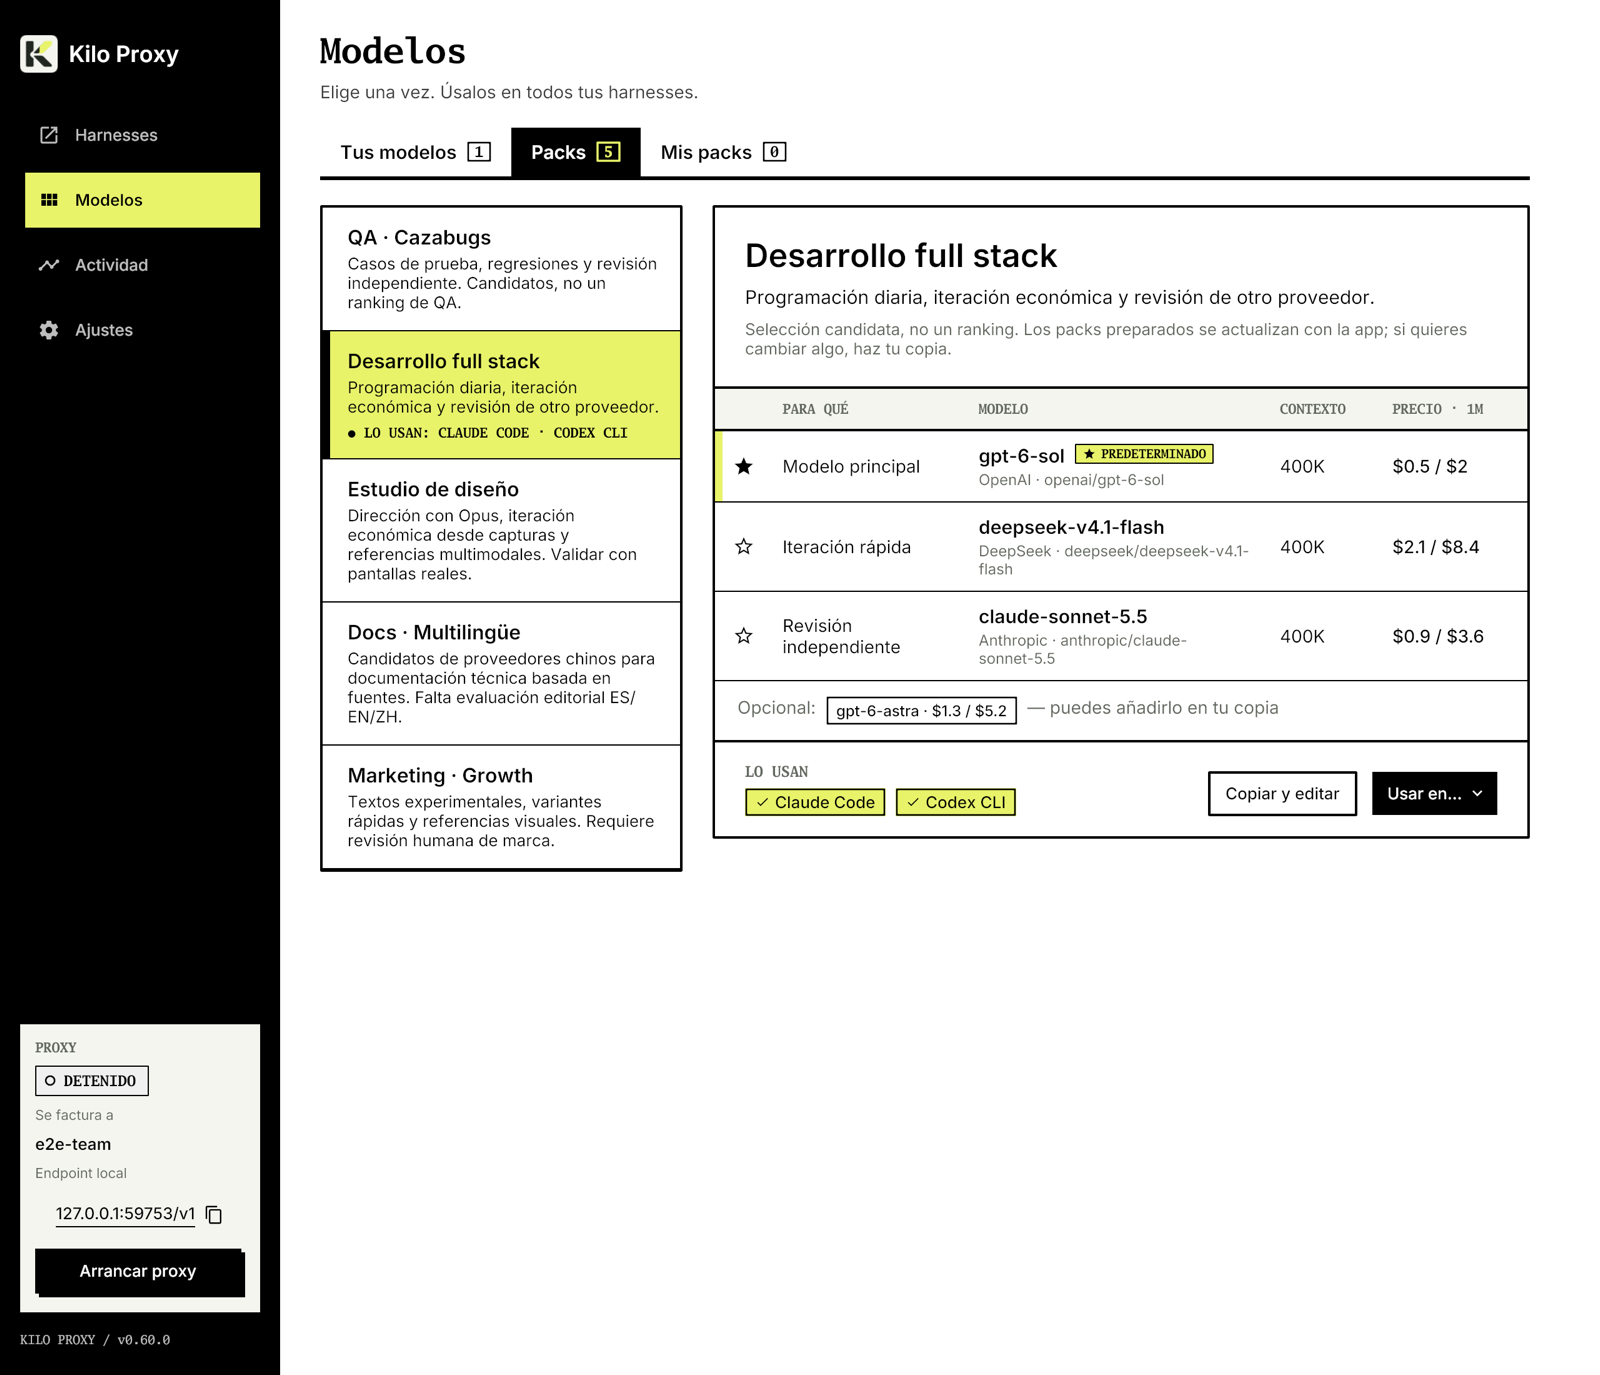
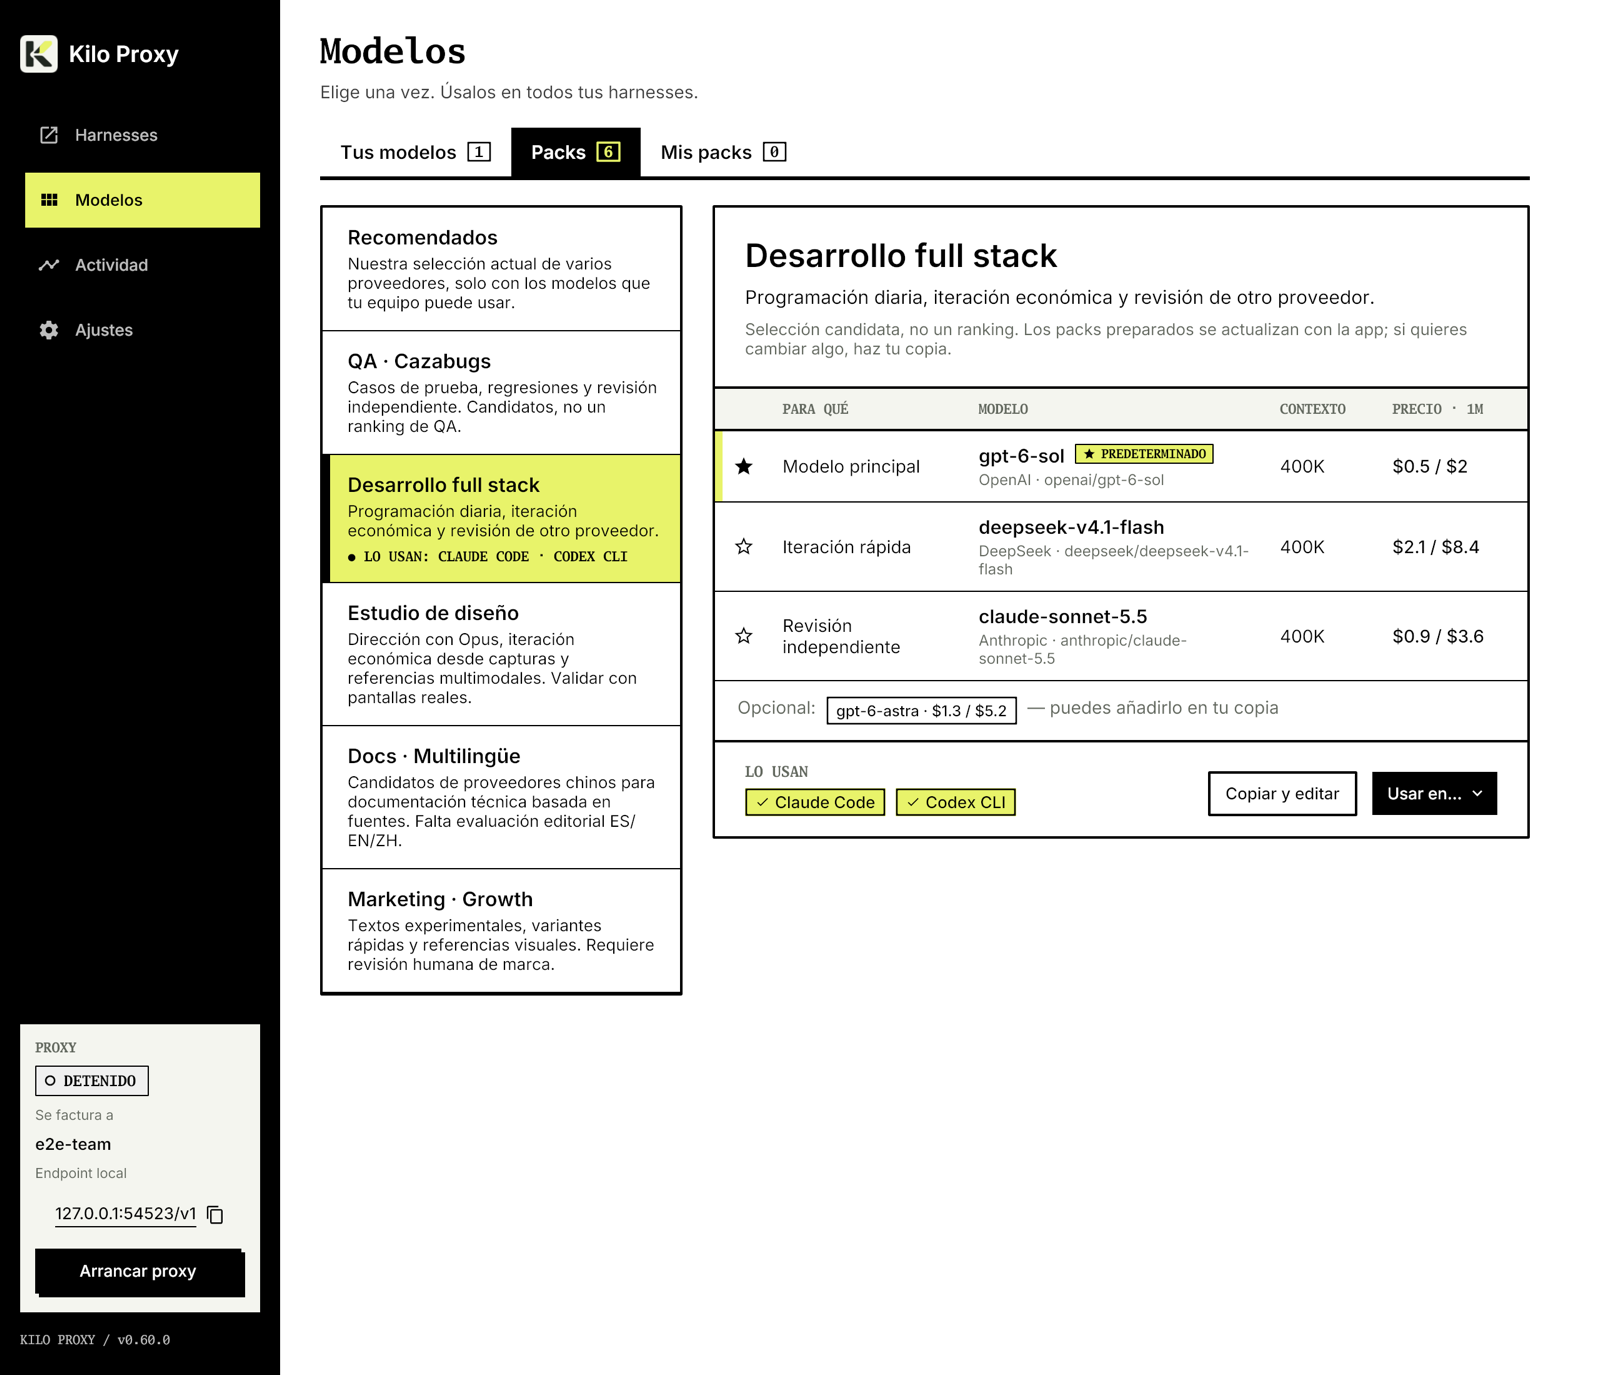
Lead Packs with a Recommended pack; recommend Gemini 3.8 Flash and Muse Spark 1.3
Packs now starts with "Recommended", built from the published
recommendations that the team catalog offers, in list order and with the
published default. It can be assigned to a harness and copied like the
other packs, and terminal launches resolve it from the saved catalog.

The published list adds google/gemini-3.8-flash and meta/muse-spark-1.3.

Changed region(s): [[0.1875, 0.1527, 0.4375, 0.7331], [0.0312, 0.8553, 0.125, 0.8858]]

diff --git a/native_ux_packs_detail.go b/native_ux_packs_detail.go
@@ -35,7 +35,7 @@ func (u *nativeUI) uxmPacksPanel() layout.Widget {
 // uxmCuratedPack returns the selected built-in pack, selecting the first one.
 func (u *nativeUI) uxmCuratedPack() *curatedModelPack {
 	p := u.packsState()
-	builtins := builtinModelPacks()
+	builtins := u.curatedPacks()
 	for i := range builtins {
 		if builtins[i].ID == p.selected {
 			return &builtins[i]
@@ -51,7 +51,7 @@ func (u *nativeUI) uxmCuratedPack() *curatedModelPack {
 func (u *nativeUI) uxmCuratedPackList() layout.Widget {
 	chosen := u.uxmCuratedPack()
 	rows := []layout.Widget{}
-	for _, pack := range builtinModelPacks() {
+	for _, pack := range u.curatedPacks() {
 		id := pack.ID
 		rows = append(rows, u.uxmPackListRow("packs.pick."+id, u.localizedPackText(pack.Name), u.localizedPackText(pack.Description), u.uxmPackUsers(id), chosen != nil && chosen.ID == id, func() { u.packsState().selected = id }))
 	}
@@ -70,6 +70,11 @@ func (u *nativeUI) uxmCuratedPackDetail() layout.Widget {
 	pack := *chosen
 	columns := u.uxmCuratedColumns()
 	rows := []layout.Widget{u.uxmTableHeader(columns)}
+	if len(pack.Models) == 0 {
+		rows = append(rows, func(gtx layout.Context) layout.Dimensions {
+			return layout.UniformInset(18).Layout(gtx, u.note(u.tr("None of the recommended models are in your team catalog yet. Refresh the catalog to check again.", "Ninguno de los modelos recomendados figura todavía en el catálogo de tu equipo. Actualiza el catálogo para volver a comprobarlo.")))
+		})
+	}
 	for _, spec := range pack.Models {
 		isDefault := spec.ID == pack.DefaultModel
 		star := uxmIcon(nativeIconStarOutline, 18, nativeInk)
@@ -99,10 +104,14 @@ func (u *nativeUI) uxmCuratedPackDetail() layout.Widget {
 			return layout.Inset{Top: 12, Bottom: 12, Left: 18, Right: 18}.Layout(gtx, u.pills(chips...))
 		})
 	}
-	copyButton := u.disabled(len(u.models) > 0 && len(u.missingPackModels(pack.ID)) == 0, u.button("packs.copy."+pack.ID, u.tr("Copy and edit", "Copiar y editar"), func() { u.createPersonalPack(pack.ID) }))
+	copyButton := u.disabled(len(pack.Models) > 0 && len(u.models) > 0 && len(u.missingPackModels(pack.ID)) == 0, u.button("packs.copy."+pack.ID, u.tr("Copy and edit", "Copiar y editar"), func() { u.createPersonalPack(pack.ID) }))
+	caption := u.tr("Candidate selection, not a ranking. Built-in packs update with the app; to change something, make your copy.", "Selección candidata, no un ranking. Los packs preparados se actualizan con la app; si quieres cambiar algo, haz tu copia.")
+	if pack.ID == modelLibraryStartRecommended {
+		caption = u.tr("Follows the published recommendations and refreshes with your catalog; to change something, make your copy.", "Sigue las recomendaciones publicadas y se actualiza con tu catálogo; si quieres cambiar algo, haz tu copia.")
+	}
 	header := u.uxmPackHeader(u.textStyle(26, u.localizedPackText(pack.Name), nativeInk, font.Bold),
 		u.textStyle(15, u.localizedPackText(pack.Description), nativeText, font.Normal),
-		u.uxmSubtle(13, u.tr("Candidate selection, not a ranking. Built-in packs update with the app; to change something, make your copy.", "Selección candidata, no un ranking. Los packs preparados se actualizan con la app; si quieres cambiar algo, haz tu copia.")),
+		u.uxmSubtle(13, caption),
 	)
 	body := []layout.Widget{header, uxmHRule(nativeLine, nativeInk), uxmStack(rows...)}
 	if missing := u.missingPackModels(pack.ID); len(missing) > 0 && len(u.models) > 0 {

diff --git a/model_packs.go b/model_packs.go
@@ -12,6 +12,7 @@ import (
 	"os"
 	"path/filepath"
 	"regexp"
+	"slices"
 	"strings"
 	"unicode"
 	"unicode/utf8"
@@ -116,6 +117,50 @@ func builtinModelPacks() []curatedModelPack {
 	return catalog.Packs
 }
 
+// recommendedModelPack is the "Recommended" pack: the published picks that the
+// team catalog offers, in list order. It is built from the catalog so it never
+// names a model the team cannot use, and it follows the published list.
+func recommendedModelPack(catalog []modelInfo) curatedModelPack {
+	pack := curatedModelPack{
+		ID:          modelLibraryStartRecommended,
+		Name:        packText{EN: "Recommended", ES: "Recomendados"},
+		Description: packText{EN: "Our current picks across providers, limited to the models your team can use.", ES: "Nuestra selección actual de varios proveedores, solo con los modelos que tu equipo puede usar."},
+	}
+	recommended := []modelInfo{}
+	for _, m := range catalog {
+		if m.Recommendation != nil {
+			recommended = append(recommended, m)
+		}
+	}
+	slices.SortStableFunc(recommended, func(a, b modelInfo) int { return a.Recommendation.Rank - b.Recommendation.Rank })
+	for _, m := range recommended {
+		r := m.Recommendation
+		pack.Models = append(pack.Models, packModelSpec{ID: m.ID, Role: packText{EN: packRole(r.NoteEN), ES: packRole(r.NoteES)}})
+		if r.Default && pack.DefaultModel == "" {
+			pack.DefaultModel = m.ID
+		}
+	}
+	if len(recommended) > 0 && pack.DefaultModel == "" {
+		pack.DefaultModel = recommended[0].ID
+	}
+	return pack
+}
+
+// packRole fits a recommendation note into a pack role, which personal copies
+// limit to 80 characters.
+func packRole(note string) string {
+	r := []rune(strings.TrimSpace(note))
+	if len(r) <= 80 {
+		return string(r)
+	}
+	return strings.TrimSpace(string(r[:79])) + "…"
+}
+
+// curatedModelPacks lists the Recommended pack first, then the built-in packs.
+func curatedModelPacks(catalog []modelInfo) []curatedModelPack {
+	return append([]curatedModelPack{recommendedModelPack(catalog)}, builtinModelPacks()...)
+}
+
 func emptyModelPacksFile() modelPacksFile {
 	return modelPacksFile{SchemaVersion: 1, Personal: []personalModelPack{}, Assignments: map[string]string{}}
 }
@@ -165,9 +210,12 @@ func modelPackLibrary(file modelPacksFile, id string, catalog []modelInfo) (mode
 	if personal := file.personalPack(id); personal != nil {
 		return cloneModelLibrary(personal.Library), nil
 	}
-	for _, pack := range builtinModelPacks() {
+	for _, pack := range curatedModelPacks(catalog) {
 		if pack.ID != id {
 			continue
+		}
+		if len(pack.Models) == 0 {
+			return modelLibrary{}, errors.New("No recommended models are in your team catalog. Refresh Models or choose another pack.")
 		}
 		known := make(map[string]modelInfo, len(catalog))
 		for _, model := range catalog {

diff --git a/native_packs.go b/native_packs.go
@@ -23,23 +23,22 @@ type nativePackUI struct {
 func (u *nativeUI) packsState() *nativePackUI {
 	if u.packs == nil {
 		store := newModelPacksStore(u.owner.dir)
-		selected := ""
-		if builtins := builtinModelPacks(); len(builtins) > 0 {
-			selected = builtins[0].ID
-		}
-		u.packs = &nativePackUI{store: store, file: cloneModelPacksFile(store.value), tab: "library", selected: selected}
+		u.packs = &nativePackUI{store: store, file: cloneModelPacksFile(store.value), tab: "library", selected: modelLibraryStartRecommended}
 	}
 	return u.packs
 }
 
 func (u *nativeUI) localizedPackText(value packText) string { return u.tr(value.EN, value.ES) }
 
+// curatedPacks lists the Recommended pack first, then the built-in packs.
+func (u *nativeUI) curatedPacks() []curatedModelPack { return curatedModelPacks(u.models) }
+
 func (u *nativeUI) packName(id string) string {
 	p := u.packsState()
 	if personal := p.file.personalPack(id); personal != nil {
 		return personal.Name
 	}
-	for _, builtin := range builtinModelPacks() {
+	for _, builtin := range u.curatedPacks() {
 		if builtin.ID == id {
 			return u.localizedPackText(builtin.Name)
 		}
@@ -130,7 +129,7 @@ func (u *nativeUI) createPersonalPack(basedOn string) {
 	roles := map[string]string{}
 	if basedOn != "" {
 		var builtin *curatedModelPack
-		for _, spec := range builtinModelPacks() {
+		for _, spec := range u.curatedPacks() {
 			if spec.ID == basedOn {
 				copy := spec
 				builtin = &copy
@@ -150,11 +149,16 @@ func (u *nativeUI) createPersonalPack(basedOn string) {
 			return
 		}
 		name = u.tr("My ", "Mi ") + u.localizedPackText(builtin.Name)
+		if basedOn == modelLibraryStartRecommended {
+			name = u.tr("My recommended", "Mis recomendados")
+		}
 		library = modelLibrary{SchemaVersion: 1, Models: []modelLibraryItem{}}
 		for _, spec := range builtin.Models {
 			model, _ := u.packCatalogModel(spec.ID)
 			library.Models = append(library.Models, modelLibraryItem{ID: spec.ID, ContextPreset: contextPresetRecommended, MaxOutputTokens: model.MaxOutputTokens})
-			roles[spec.ID] = u.localizedPackText(spec.Role)
+			if role := u.localizedPackText(spec.Role); role != "" {
+				roles[spec.ID] = role
+			}
 		}
 		if len(library.Models) == 0 {
 			u.noticeError(errors.New(u.tr("None of this pack's models are in your team's catalog.", "Ningún modelo de este pack figura en el catálogo de tu equipo.")))

diff --git a/model_packs_test.go b/model_packs_test.go
@@ -169,3 +169,30 @@ func TestPersonalPacksWithoutValidBackupCannotBeResetSilently(t *testing.T) {
 		}
 	}
 }
+
+func TestRecommendedPackFollowsCatalogRecommendations(t *testing.T) {
+	long := strings.Repeat("a", 120)
+	catalog := []modelInfo{
+		{ID: "x/plain"},
+		{ID: "x/second", Recommendation: &modelRecommendation{Rank: 2, Default: true, NoteEN: "Second", NoteES: long}},
+		{ID: "x/first", Recommendation: &modelRecommendation{Rank: 1, NoteEN: "First", NoteES: "Primero"}},
+	}
+	packs := curatedModelPacks(catalog)
+	if len(packs) != len(builtinModelPacks())+1 || packs[0].ID != modelLibraryStartRecommended {
+		t.Fatalf("Recommended must lead the curated packs, got %d packs starting with %q", len(packs), packs[0].ID)
+	}
+	pack := packs[0]
+	if len(pack.Models) != 2 || pack.Models[0].ID != "x/first" || pack.Models[1].ID != "x/second" || pack.DefaultModel != "x/second" {
+		t.Fatalf("unexpected recommended pack: %+v", pack)
+	}
+	if !validPackText(pack.Models[1].Role.ES, 80) {
+		t.Fatalf("long notes must fit a pack role, got %d runes", len([]rune(pack.Models[1].Role.ES)))
+	}
+	library, err := modelPackLibrary(emptyModelPacksFile(), modelLibraryStartRecommended, catalog)
+	if err != nil || len(library.Models) != 2 || library.DefaultModel != "x/second" {
+		t.Fatalf("recommended pack library = %+v, %v", library, err)
+	}
+	if _, err := modelPackLibrary(emptyModelPacksFile(), modelLibraryStartRecommended, []modelInfo{{ID: "x/plain"}}); err == nil {
+		t.Fatal("a catalog without recommendations must not resolve an empty Recommended pack")
+	}
+}

diff --git a/native_screenshot_test.go b/native_screenshot_test.go
@@ -231,6 +231,14 @@ func TestNativeScreenshots(t *testing.T) {
 		k.language = lang
 	}
 	k.models = uxmPackCatalogForTest(r.models)
+	// Mark the catalog with the published list so the Recommended pack has rows.
+	if recommendations, err := parseRecommendedModels(embeddedRecommendedModels); err == nil {
+		for i := range k.models {
+			if rec, ok := recommendations[k.models[i].ID]; ok {
+				k.models[i].Recommendation = &rec
+			}
+		}
+	}
 	k.page, k.setupStep = "setup", setupModels
 	k.setValue("setup.models.start", "full-stack-dev")
 	shoot(k, "30-models-setup-pack", 1280, 1700)
@@ -246,6 +254,10 @@ func TestNativeScreenshots(t *testing.T) {
 	shoot(k, "31-models-packs", 1280, 1100)
 	k.uxmOpenMenu("packs.use.full-stack-dev", "")
 	shoot(k, "32-models-packs-use", 1280, 1100)
+	k.setValue("uxm.menu", "")
+	p.selected = modelLibraryStartRecommended
+	shoot(k, "31b-models-packs-recommended", 1280, 1300)
+	p.selected = "full-stack-dev"
 	k.setValue("uxm.menu", "")
 	k.createPersonalPack("full-stack-dev")
 	k.assignPack(p.selected, "opencode")

diff --git a/native_library.go b/native_library.go
@@ -301,7 +301,7 @@ func (u *nativeUI) modelsPanel() layout.Widget {
 	}
 	tabs := u.uxmTabs("models.tab.", []uxmTab{
 		{value: "library", label: u.tr("Your models", "Tus modelos"), count: len(u.library.selection.Models)},
-		{value: "packs", label: u.tr("Packs", "Packs"), count: len(builtinModelPacks())},
+		{value: "packs", label: u.tr("Packs", "Packs"), count: len(u.curatedPacks())},
 		{value: "mine", label: u.tr("My packs", "Mis packs"), count: len(packs.file.Personal)},
 	}, packs.tab, func(value string) { packs.tab = value })
 	panel := u.uxmLibraryPage()
